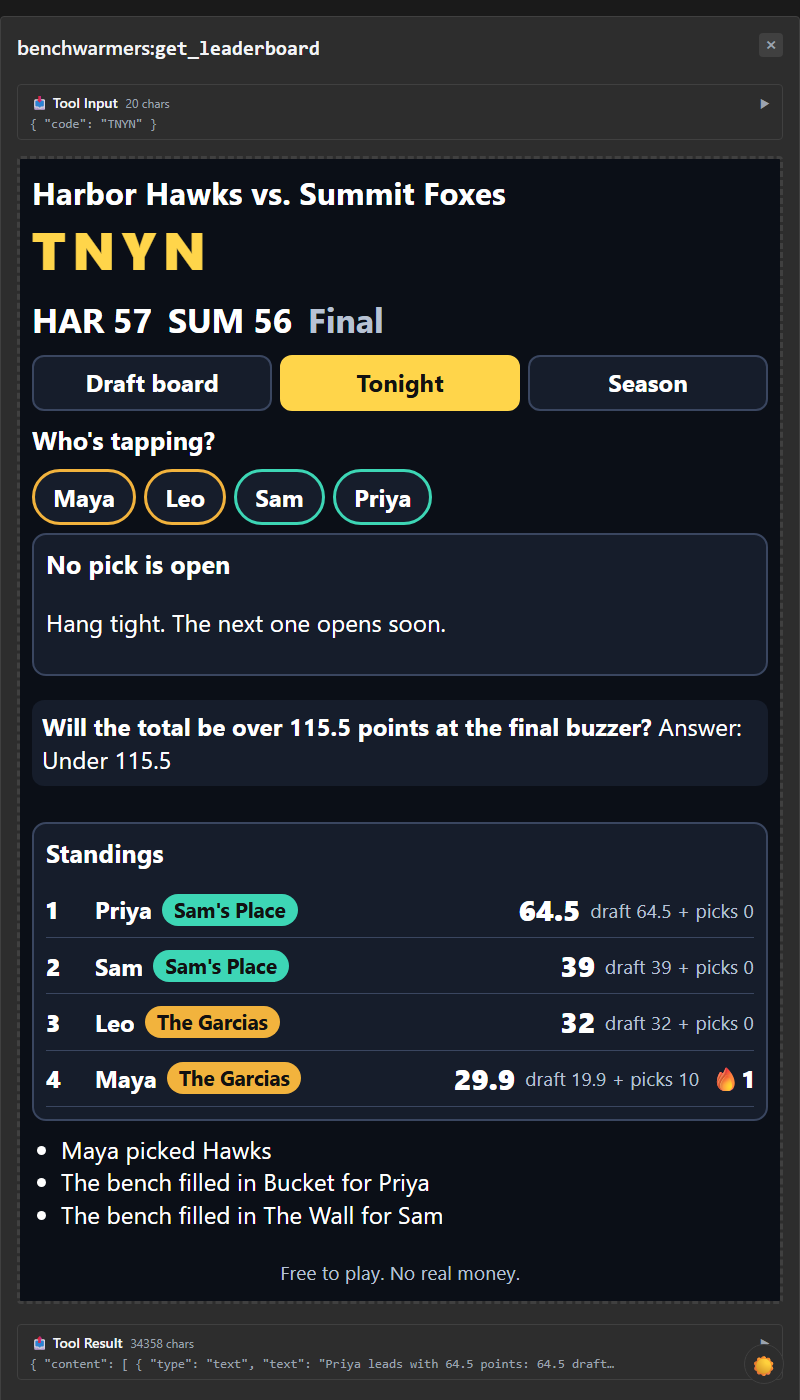
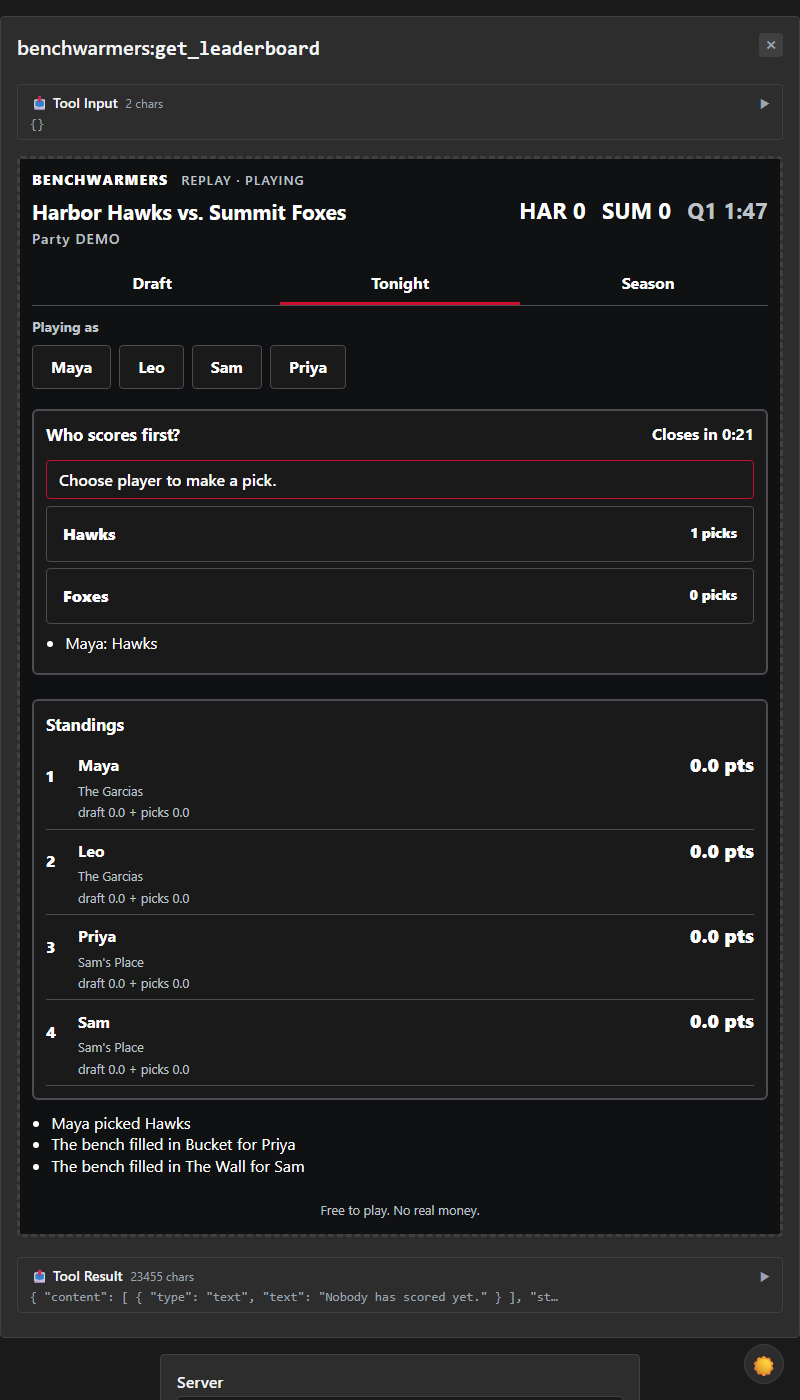
docs: refresh widget screenshots (ESPN look)

diff --git a/docs/MCP_HOSTS.md b/docs/MCP_HOSTS.md
@@ -12,7 +12,7 @@ npx @modelcontextprotocol/inspector
 Add server -> Streamable HTTP -> `http://localhost:3001/mcp`; add the bearer header under Server Settings > Custom Headers
 (not in the Add dialog). Tools load automatically on connect (no "List Tools" button in 2.x).
 
-![Inspector tool list, 11 tools](img/inspector-tools.png)
+![Inspector tool list, 22 tools](img/inspector-tools.png)
 
 CLI mode (used for the Checkpoint 2 flow; full output in [img/inspector-flow.txt](img/inspector-flow.txt)):
 ```
@@ -50,7 +50,7 @@ Views: draft = `list_available_players`/`draft_player`; tonight = `get_leaderboa
 | Tonight | ![](img/basic-host-tonight-800.png) | ![](img/basic-host-tonight-1280.png) |
 | Season | ![](img/basic-host-season-800.png) | ![](img/basic-host-season-1280.png) |
 
-Observations: single column at 800 (widget about 760 px wide), two columns at 1280. The breakpoint is `min-width:1000px` on the
+Re-shot 2026-10-22 (ESPN dark look, basic-host + Inspector 2.11.0 Apps tab). Observations: single column at 800 (widget about 760 px wide), two columns at 1280. The breakpoint is `min-width:1000px` on the
 widget's own width, so it switches correctly between the two host sizes. No widget console errors. The only logs are
 `404 /favicon.ico` and `405 GET /mcp` (the host probes for a standalone SSE stream; our stateless server doesn't offer one; harmless).
 
